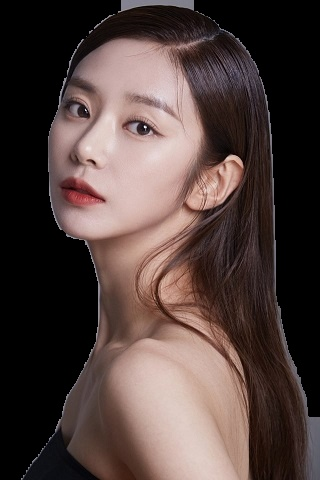
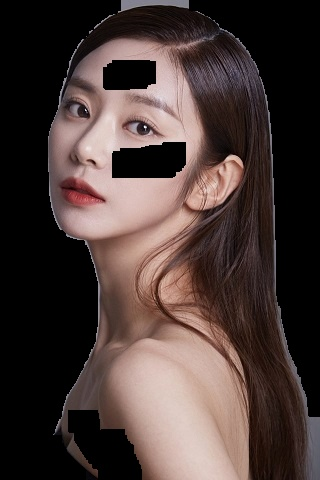
contour-detection rund but yields scuffed result

diff --git a/contour.py b/contour.py
@@ -1,0 +1,34 @@
+import numpy as np
+
+
+def find_contours(edges):
+    found_contours = []
+    evaluated_matrix = np.full(edges.shape, False)
+    index = 0
+
+    for y in range(0, edges.shape[0]):
+        for x in range(0, edges.shape[1]):
+            if edges[y, x] == 0 or evaluated_matrix[y, x] == True:
+                pass
+            else:
+                contour, evaluated_matrix = find_consecutive(edges, evaluated_matrix, (y, x))
+                if len(contour) > 0:
+                    found_contours.append(contour)
+    return np.array(found_contours)
+                
+
+def find_consecutive(edges, evaluated_matrix, origin):
+    contour_points = []
+    next_points = [origin]
+
+    while next_points:
+        y, x = next_points.pop()
+        if (edges[y, x] != 0 and evaluated_matrix[y, x] == False):
+            neighbors = [(y+1, x), (y-1, x), (y, x+1), (y, x-1)]
+            for y2, x2 in neighbors:
+                if 0 <= y2 < edges.shape[0] and 0 <= x2 < edges.shape[1]:
+                    if evaluated_matrix[y2, x2] == False:
+                        next_points.append((y2, x2))
+            contour_points.append(np.array((x, y)))
+        evaluated_matrix[y, x] = True
+    return np.array(contour_points), evaluated_matrix

diff --git a/silhouette.py b/silhouette.py
@@ -4,6 +4,7 @@ import yaml
 from pathlib import Path
 import edge
 from gaussian_blur import gaussian_blur
+from contour import find_contours
 
 def read_yaml(path: str) -> dict:
     with open(path, "r") as stream:
@@ -24,10 +25,15 @@ def remove_background(config: dict, image):
 
         edges = cv2.dilate(edges, None)
         edges = cv2.erode(edges, None)
+        cv2.imwrite(str(Path('images') / 'edges.jpg'), edges)
+
+        print(edges)
 
         # get the contours and their areas
-        contours, hierarchy  = cv2.findContours(edges, cv2.RETR_LIST, cv2.CHAIN_APPROX_NONE)
-        
+        # contours, hierarchy  = cv2.findContours(edges, cv2.RETR_LIST, cv2.CHAIN_APPROX_NONE)
+        contours = find_contours(edges)
+        print(contours)
+
         # cont = cv2.contourArea(contours[0])
         contour_info = [(c, cv2.contourArea(c),) for c in contours]
 
